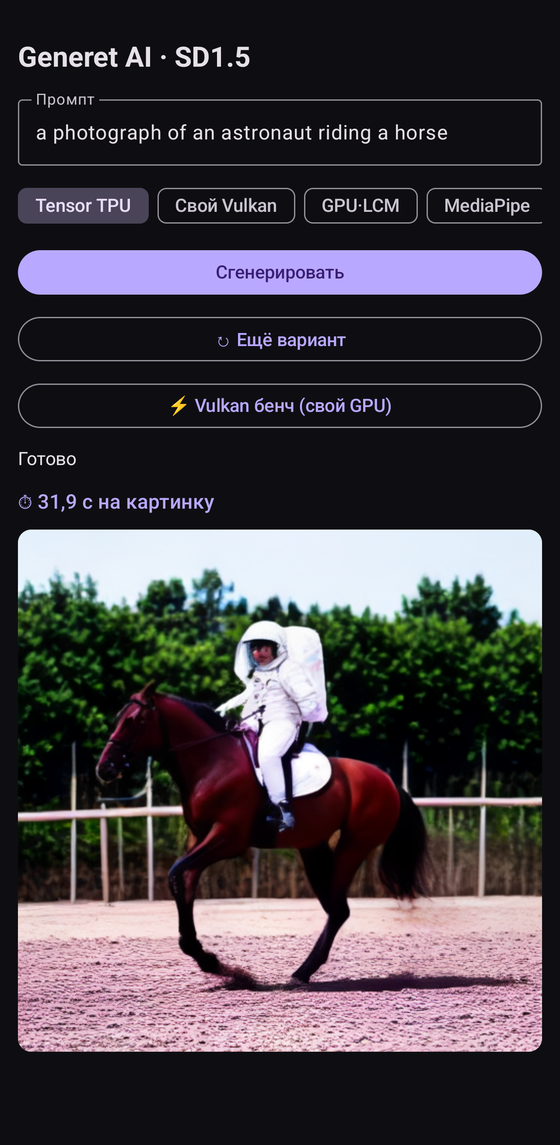
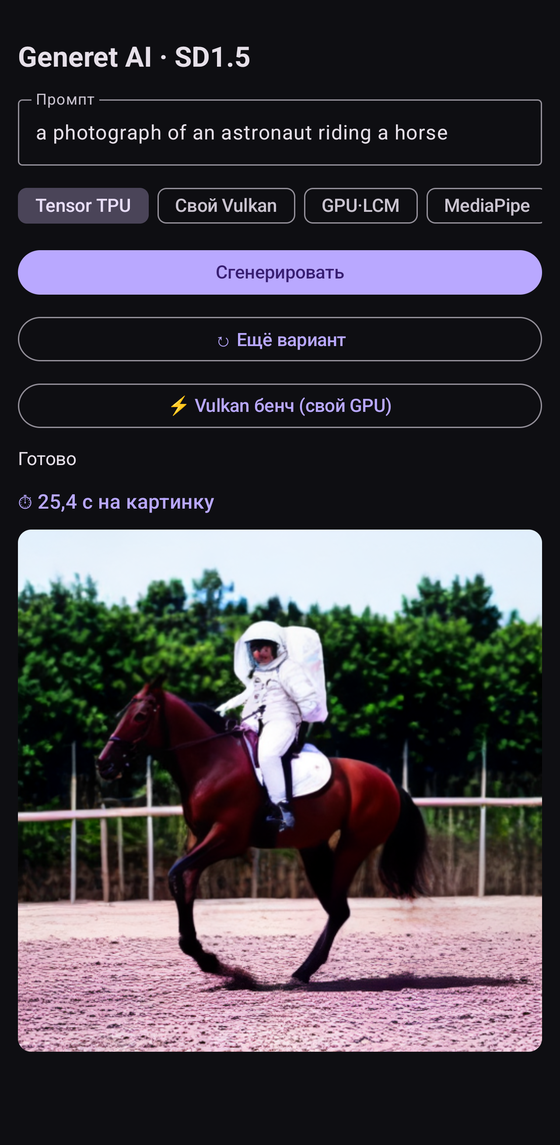
README: новые цифры TPU — 25.4 с, forward 3.88 с (SDK v1.1.0)
Google выдал компилятор v1.1.0 (2 июля) взамен v1.0.0 (20 мая). Пересборка ТОЙ ЖЕ модели
тем же bfloat16 дала forward 4.95 -> 3.88 с (-21%) при неизменном corr 0.999996;
генерация в приложении 31.9 -> 25.4 с. Обновлён скриншот результата.

Добавлен раздел «Версии SDK: что закрыто, а что доступно всем»: AOT-компилятор по-прежнему
выдаётся по заявке, но dispatch, рантайм, заголовки C-API и arm64-компилятор лежат в публичных
релизах LiteRT и Maven. Отсюда — JIT-компиляция прямо на телефоне без закрытого SDK
(раннер tools/npu/litert_tpu_jit.c): CLIP 13 мс, TAESD 26 мс; UNet не проходит
(RESOURCE_EXHAUSTED на RESHAPE из GroupNorm).

batch-CFG B=2: перепроверен на всех комбинациях компилятор x рантайм x прошивка —
падает везде одинаково, баг в системном слое EdgeTPU.

Claude-Session: https://claude.ai/code/session_018cK8WR8b42Rp3zTpMik3sC

diff --git a/tools/npu/litert_tpu_jit.c b/tools/npu/litert_tpu_jit.c
@@ -1,0 +1,127 @@
+// JIT-компиляция на устройстве: подаём ОБЫЧНЫЙ .tflite (не AOT), рантайм сам компилирует
+// его под Tensor TPU через libLiteRtCompilerPlugin_google_tensor.so.
+// Смысл: AOT-компилятор для x86 выдаётся Google по заявке (ACL), а arm64-плагин лежит
+// в публичном релизе LiteRT — если JIT работает, закрытый SDK для сборки моделей не нужен.
+// Аргументы: model plugin_dir dispatch_dir [runs=3]
+#include <stdio.h>
+#include <stdlib.h>
+#include <string.h>
+#include <time.h>
+
+#include "litert/c/litert_any.h"
+#include "litert/c/litert_common.h"
+#include "litert/c/litert_compiled_model.h"
+#include "litert/c/litert_environment.h"
+#include "litert/c/litert_environment_options.h"
+#include "litert/c/litert_model.h"
+#include "litert/c/litert_options.h"
+#include "litert/c/litert_tensor_buffer.h"
+
+#define CK(x)                                                 \
+  do {                                                        \
+    LiteRtStatus _s = (x);                                    \
+    if (_s != kLiteRtStatusOk) {                              \
+      fprintf(stderr, "FAIL %s -> status %d\n", #x, (int)_s); \
+      return 2;                                               \
+    }                                                         \
+  } while (0)
+
+static double now_ms(void) {
+  struct timespec t;
+  clock_gettime(CLOCK_MONOTONIC, &t);
+  return t.tv_sec * 1e3 + t.tv_nsec / 1e6;
+}
+
+static long elem_count(const LiteRtRankedTensorType* tt) {
+  long c = 1;
+  for (unsigned d = 0; d < tt->layout.rank; ++d) c *= tt->layout.dimensions[d];
+  return c;
+}
+
+int main(int argc, char** argv) {
+  const char* model_path = argv[1];
+  const char* plugin_dir = argc > 2 ? argv[2] : "/data/local/tmp";
+  const char* dispatch_dir = argc > 3 ? argv[3] : "/data/local/tmp";
+  int runs = argc > 4 ? atoi(argv[4]) : 3;
+
+  const char* cache_dir = argc > 5 ? argv[5] : NULL;
+  LiteRtEnvOption opts_env[3];
+  opts_env[0].tag = kLiteRtEnvOptionTagCompilerPluginLibraryDir;
+  opts_env[0].value.type = kLiteRtAnyTypeString;
+  opts_env[0].value.str_value = plugin_dir;
+  opts_env[1].tag = kLiteRtEnvOptionTagDispatchLibraryDir;
+  opts_env[1].value.type = kLiteRtAnyTypeString;
+  opts_env[1].value.str_value = dispatch_dir;
+
+  int n_opt = 2;
+  if (cache_dir) {  // кэш компиляции: второй запуск не платит за JIT заново
+    opts_env[2].tag = kLiteRtEnvOptionTagCompilerCacheDir;
+    opts_env[2].value.type = kLiteRtAnyTypeString;
+    opts_env[2].value.str_value = cache_dir;
+    n_opt = 3;
+  }
+  LiteRtEnvironment env;
+  CK(LiteRtCreateEnvironment(n_opt, opts_env, &env));
+  fprintf(stderr, "plugin_dir=%s dispatch_dir=%s\n", plugin_dir, dispatch_dir);
+
+  LiteRtModel model;
+  double t0 = now_ms();
+  CK(LiteRtCreateModelFromFile(env, model_path, &model));
+  fprintf(stderr, "модель загружена за %.0f ms: %s\n", now_ms() - t0, model_path);
+
+  LiteRtParamIndex sg_idx;
+  CK(LiteRtGetMainModelSubgraphIndex(model, &sg_idx));
+  LiteRtSubgraph sg;
+  CK(LiteRtGetModelSubgraph(model, sg_idx, &sg));
+  LiteRtParamIndex n_in, n_out;
+  CK(LiteRtGetNumSubgraphInputs(sg, &n_in));
+  CK(LiteRtGetNumSubgraphOutputs(sg, &n_out));
+
+  LiteRtOptions opts;
+  CK(LiteRtCreateOptions(&opts));
+  CK(LiteRtSetOptionsHardwareAccelerators(opts, kLiteRtHwAcceleratorNpu));
+
+  // здесь и происходит JIT: рантайм зовёт плагин-компилятор
+  t0 = now_ms();
+  LiteRtCompiledModel cm;
+  CK(LiteRtCreateCompiledModel(env, model, opts, &cm));
+  fprintf(stderr, "JIT-КОМПИЛЯЦИЯ + загрузка: %.1f с\n", (now_ms() - t0) / 1000.0);
+
+  LiteRtTensorBuffer in_buf[8], out_buf[8];
+  for (LiteRtParamIndex i = 0; i < n_in; ++i) {
+    LiteRtTensor t;
+    CK(LiteRtGetSubgraphInput(sg, i, &t));
+    LiteRtRankedTensorType tt;
+    CK(LiteRtGetRankedTensorType(t, &tt));
+    LiteRtTensorBufferRequirements r;
+    CK(LiteRtGetCompiledModelInputBufferRequirements(cm, sg_idx, i, &r));
+    CK(LiteRtCreateManagedTensorBufferFromRequirements(env, &tt, r, &in_buf[i]));
+    void* host = NULL;
+    size_t sz = 0;
+    CK(LiteRtLockTensorBuffer(in_buf[i], &host, kLiteRtTensorBufferLockModeWrite));
+    CK(LiteRtGetTensorBufferSize(in_buf[i], &sz));
+    memset(host, 0, sz);
+    CK(LiteRtUnlockTensorBuffer(in_buf[i]));
+    fprintf(stderr, "  вход[%d] %ld элем\n", (int)i, elem_count(&tt));
+  }
+  for (LiteRtParamIndex i = 0; i < n_out; ++i) {
+    LiteRtTensor t;
+    CK(LiteRtGetSubgraphOutput(sg, i, &t));
+    LiteRtRankedTensorType tt;
+    CK(LiteRtGetRankedTensorType(t, &tt));
+    LiteRtTensorBufferRequirements r;
+    CK(LiteRtGetCompiledModelOutputBufferRequirements(cm, sg_idx, i, &r));
+    CK(LiteRtCreateManagedTensorBufferFromRequirements(env, &tt, r, &out_buf[i]));
+  }
+
+  double best = 1e18;
+  for (int r = 0; r < runs; ++r) {
+    double s = now_ms();
+    CK(LiteRtRunCompiledModel(cm, sg_idx, n_in, in_buf, n_out, out_buf));
+    double dt = now_ms() - s;
+    if (dt < best) best = dt;
+    fprintf(stderr, "  run %d: %.1f ms\n", r, dt);
+  }
+  printf("JIT forward: best=%.1f ms (n=%d)\n", best, runs);
+  return 0;
+}
